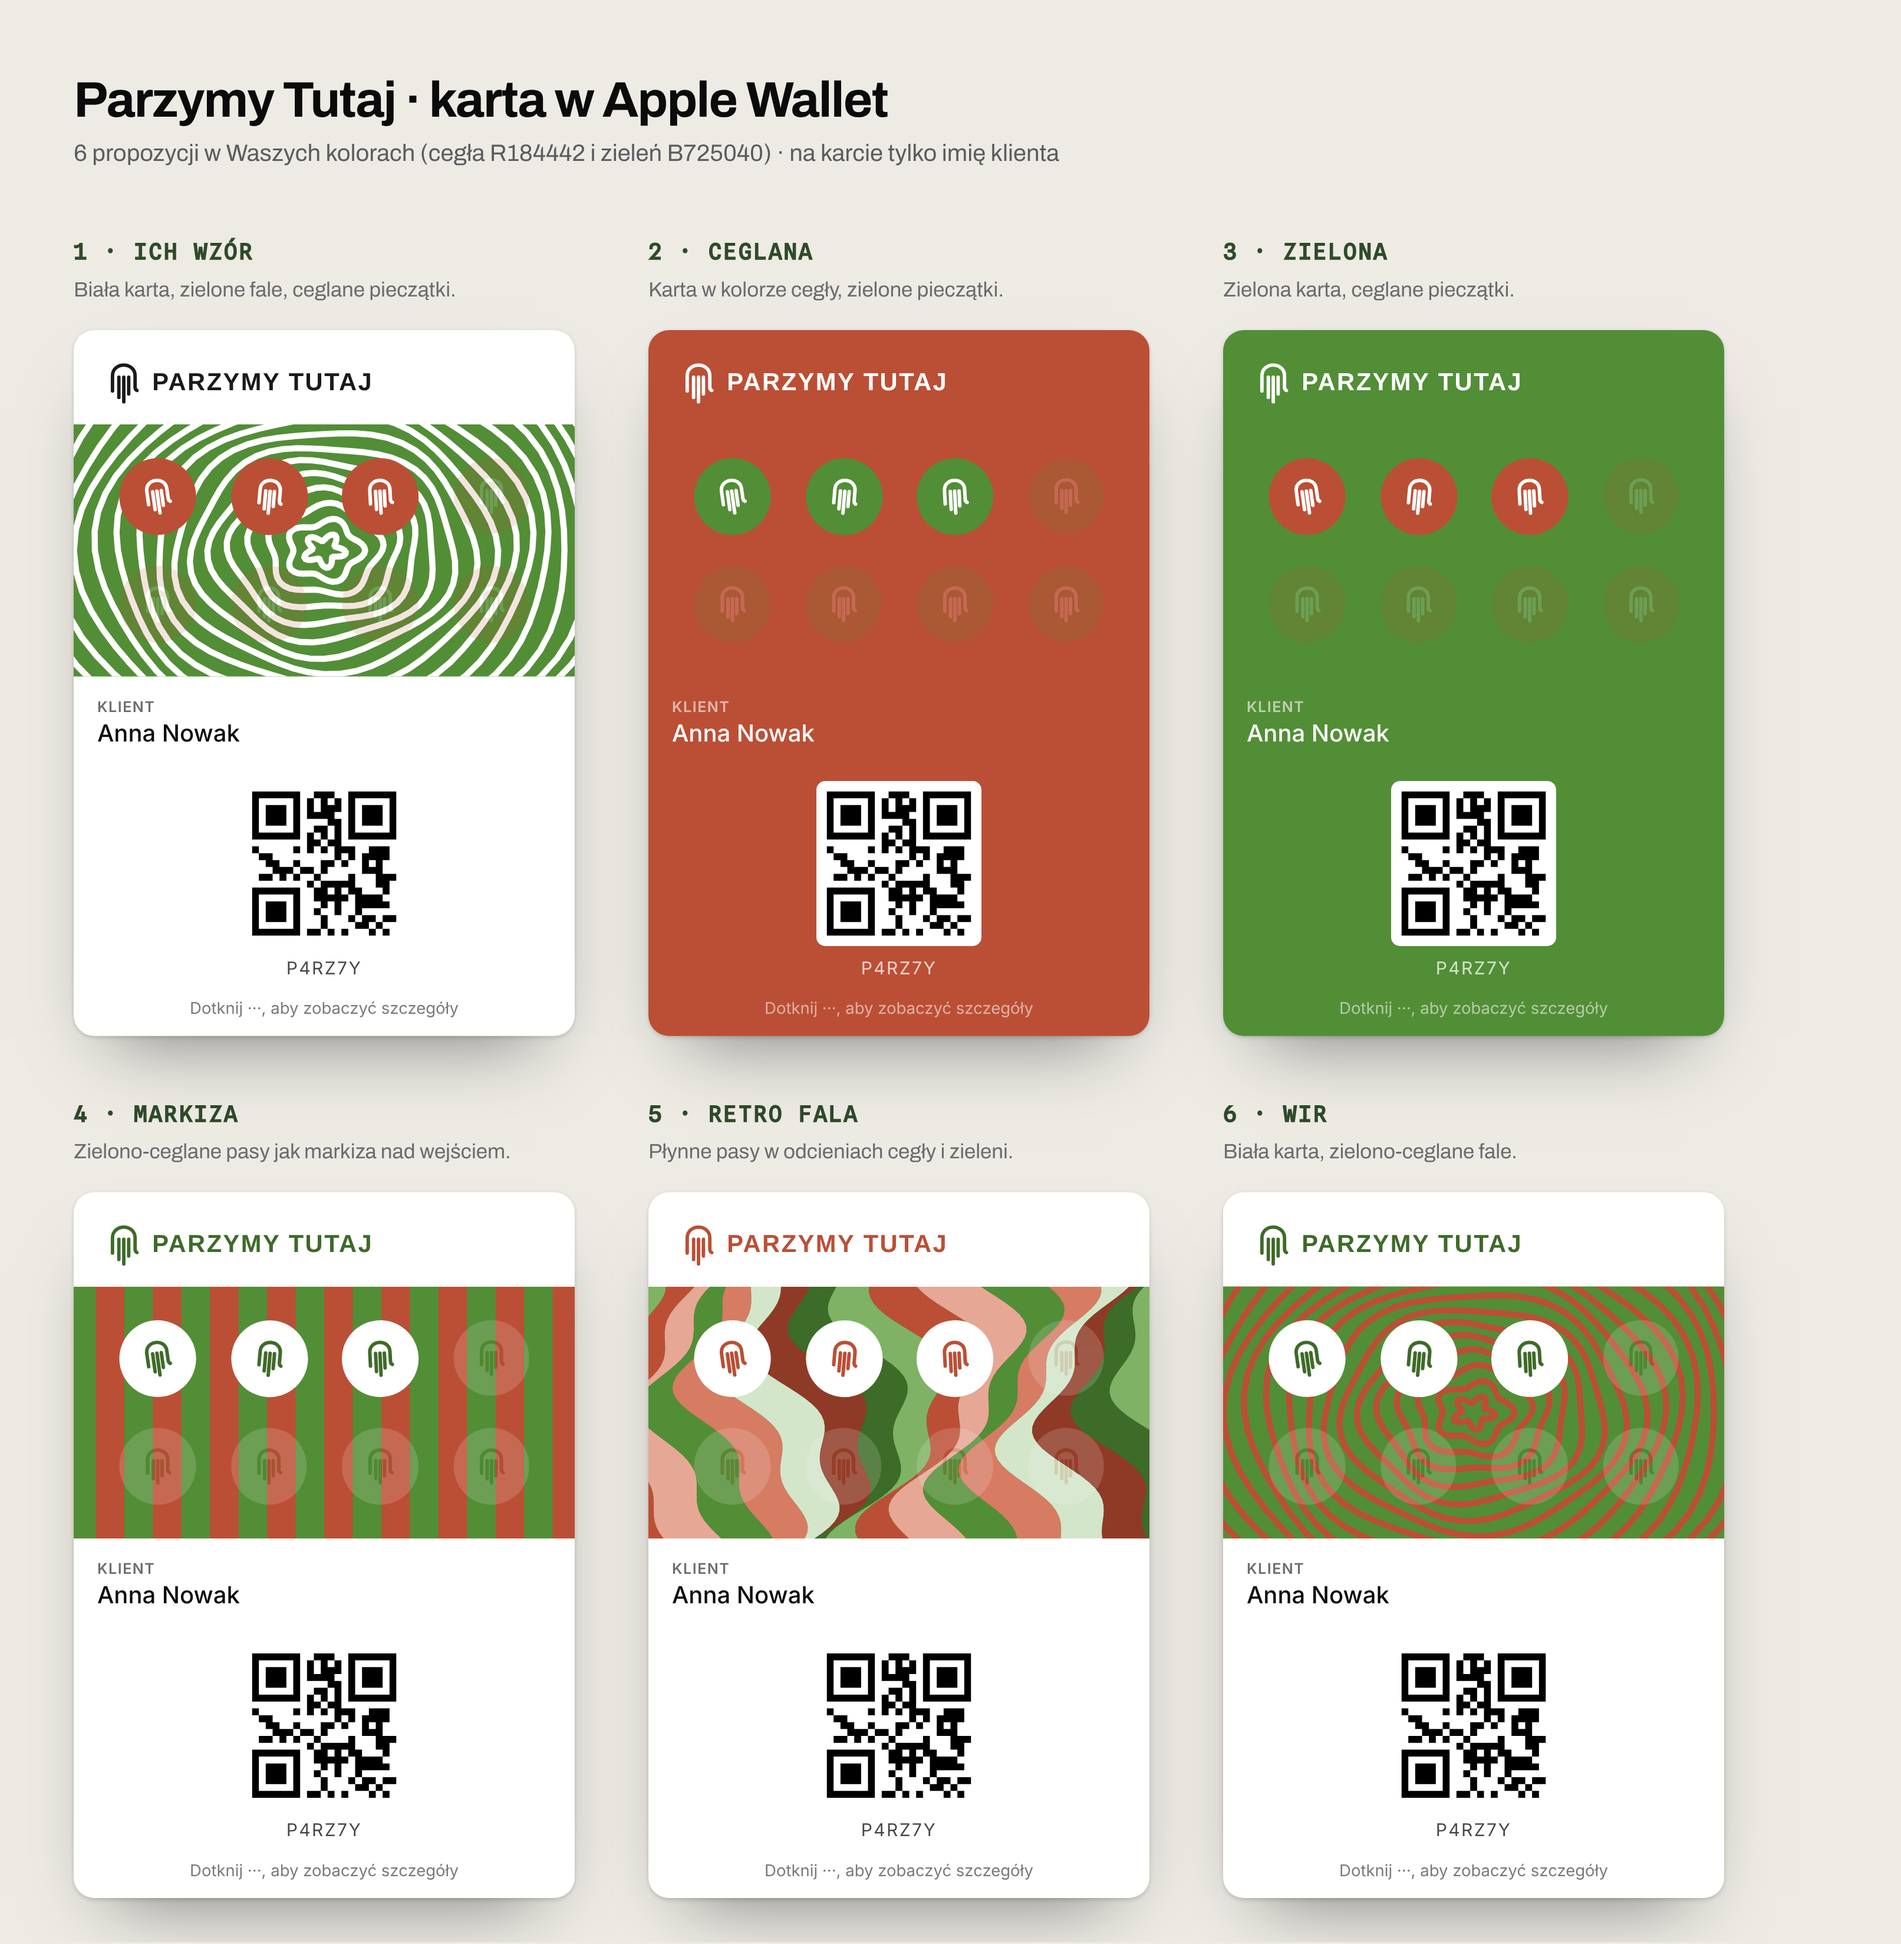
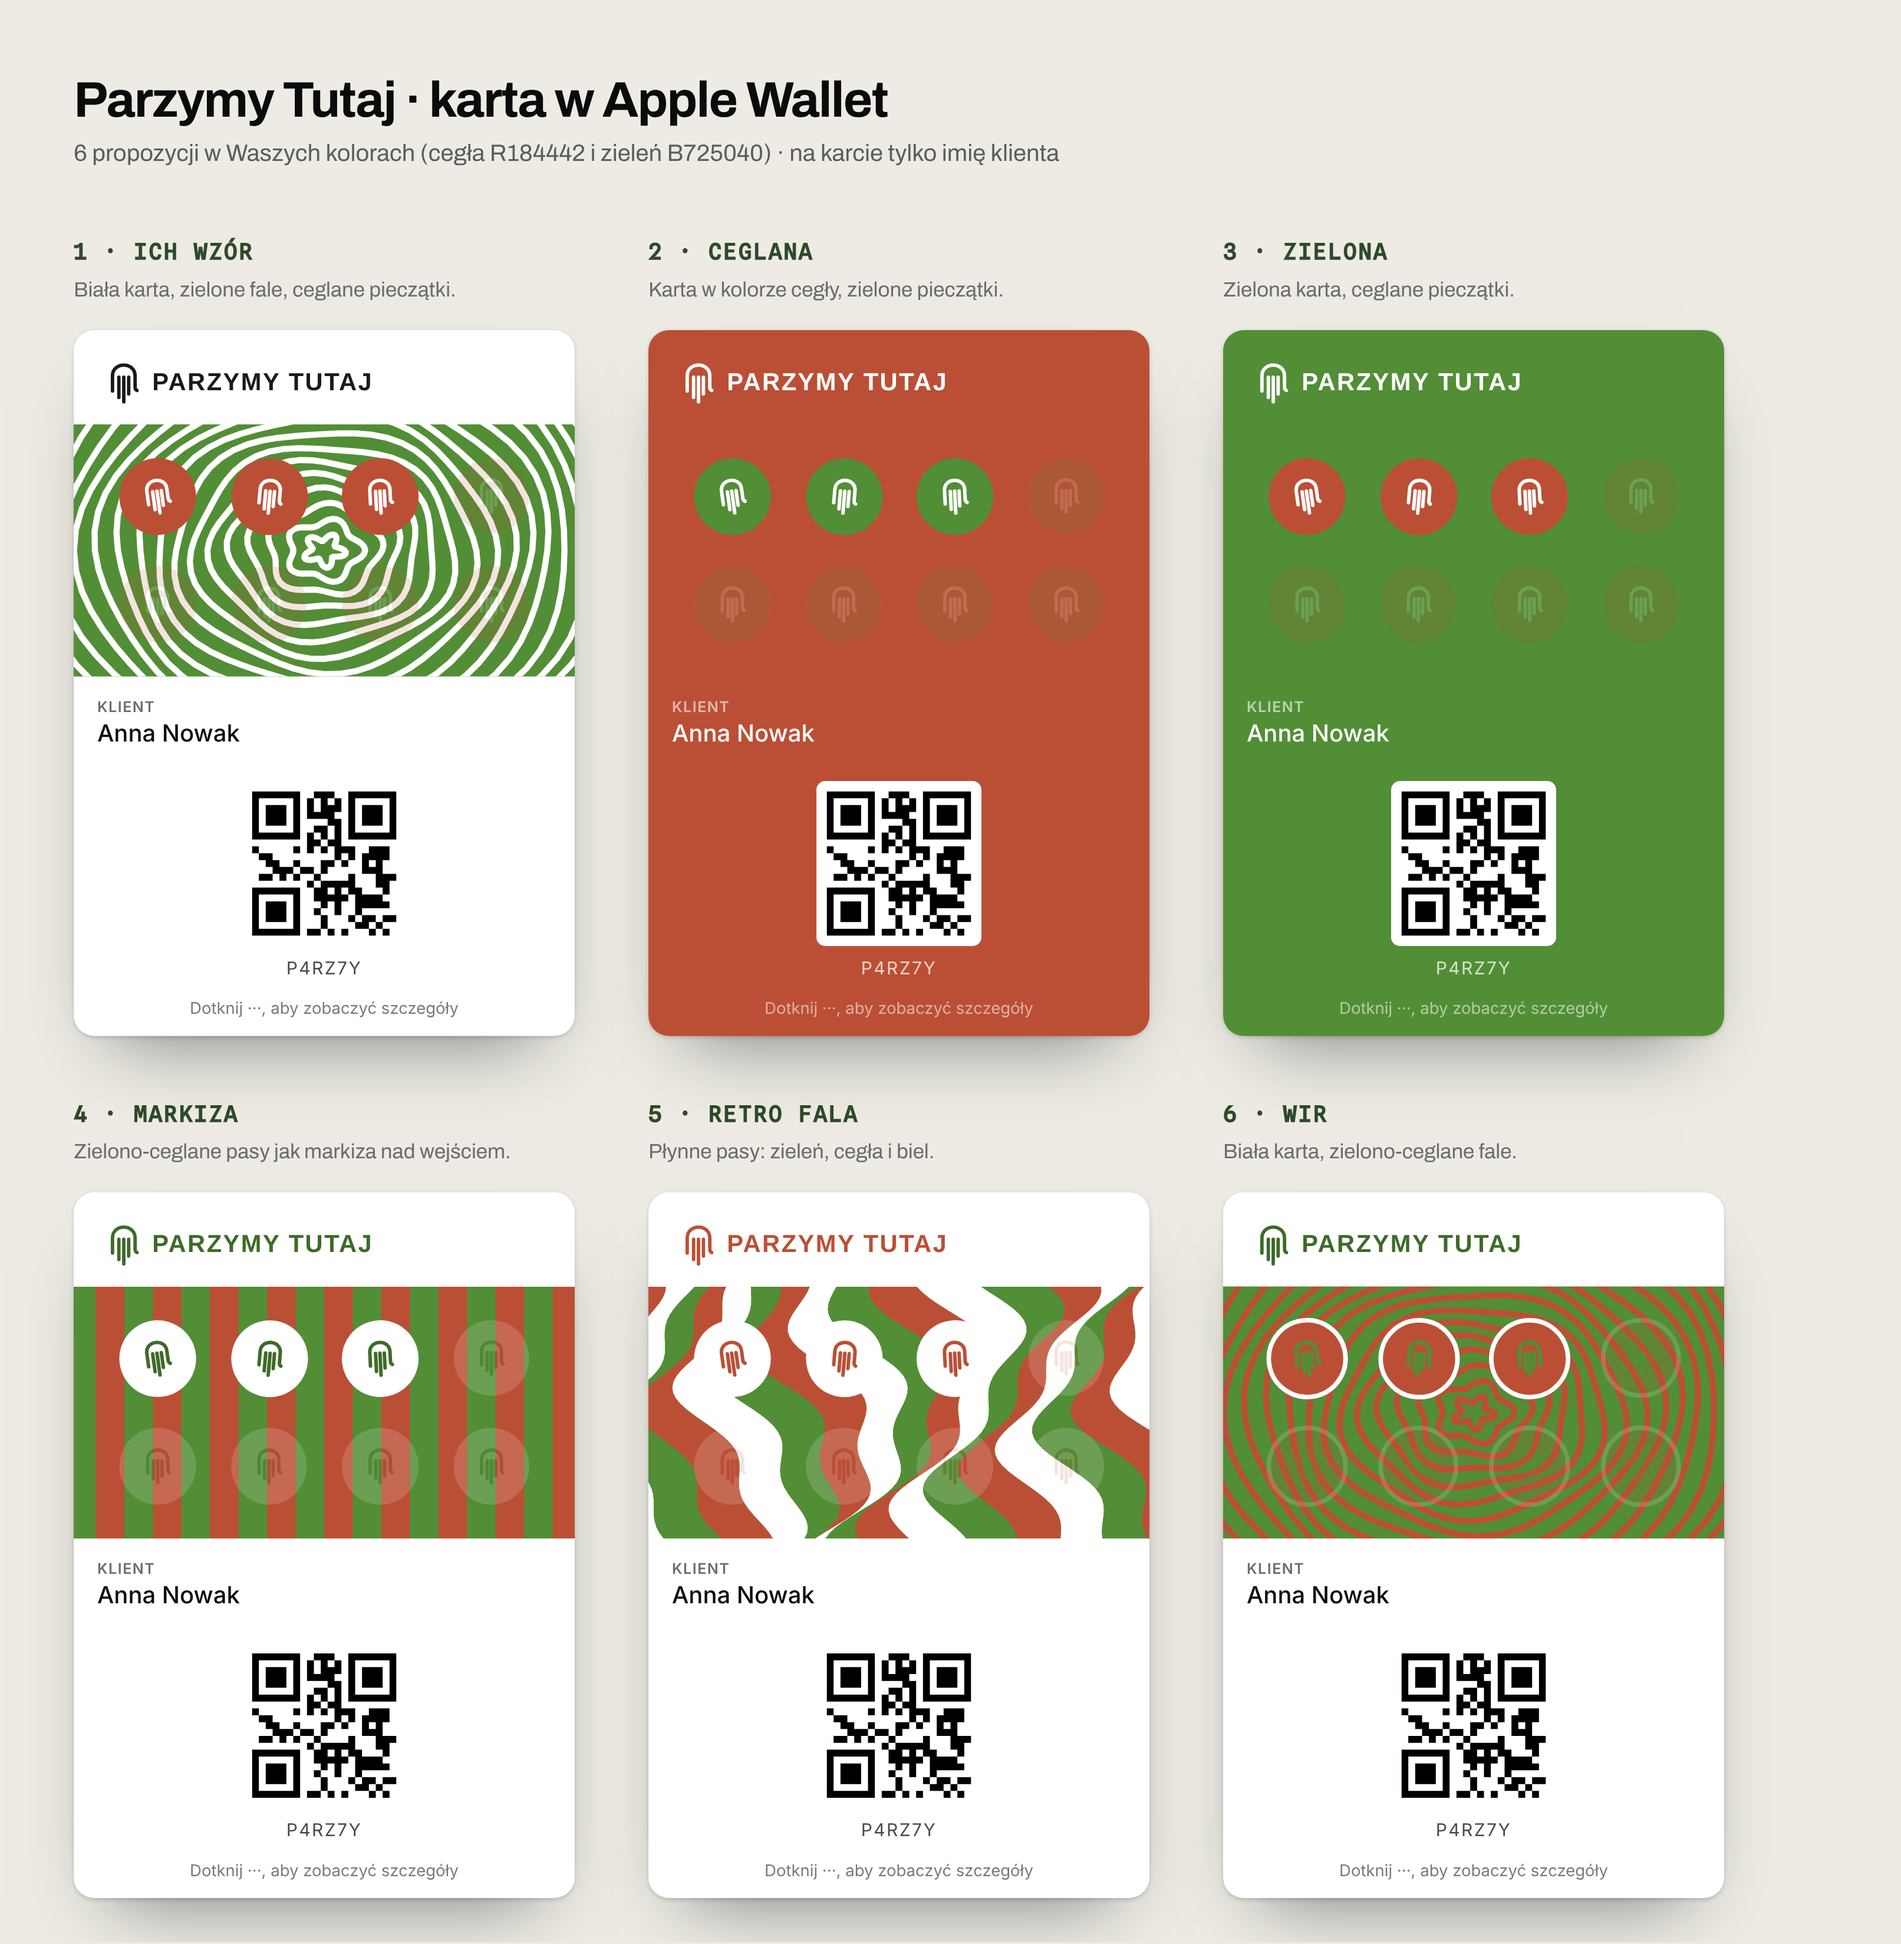
Parzymy options: card 5 in their two colours and white; card 6 brick stamps with a green mark
Claude-Session: https://claude.ai/code/session_01P7jvwC9jL6ipCqqXJiCoo9

Changed region(s): [[0.3411, 0.6559, 0.6202, 0.812], [0.6512, 0.6559, 0.8992, 0.7808]]

diff --git a/print/parzymy-options.html b/print/parzymy-options.html
@@ -103,8 +103,8 @@ body{margin:0;background:#EDEBE4}
     ['2 · Ceglana', 'Karta w kolorze cegły, zielone pieczątki.', { ...BASE, color: R, ink: W, strip: R, logo: caps(W), stripImage: plain(R), stampImage: mk(G, W) }],
     ['3 · Zielona', 'Zielona karta, ceglane pieczątki.', { ...BASE, color: G, ink: W, strip: G, logo: caps(W), stripImage: plain(G), stampImage: mk(R, W) }],
     ['4 · Markiza', 'Zielono-ceglane pasy jak markiza nad wejściem.', { ...BASE, color: W, ink: '#1A1A1A', strip: W, logo: caps(GR[700]), stripImage: awning(G, R), stampImage: mk(W, GR[700]) }],
-    ['5 · Retro fala', 'Płynne pasy w odcieniach cegły i zieleni.', { ...BASE, color: W, ink: '#1A1A1A', strip: W, logo: caps(R), stripImage: liquid([GR[700], GR[300], BR[500], BR[200], GR[500], BR[300], GR[100], BR[700]]), stampImage: mk(W, R) }],
-    ['6 · Wir', 'Biała karta, zielono-ceglane fale.', { ...BASE, color: W, ink: '#1A1A1A', strip: G, logo: caps(GR[700]), stripImage: swirl(G, R), stampImage: mk(W, GR[700]) }]
+    ['5 · Retro fala', 'Płynne pasy: zieleń, cegła i biel.', { ...BASE, color: W, ink: '#1A1A1A', strip: W, logo: caps(R), stripImage: liquid([G, R, W, G, R, W]), stampImage: mk(W, R) }],
+    ['6 · Wir', 'Biała karta, zielono-ceglane fale.', { ...BASE, color: W, ink: '#1A1A1A', strip: G, logo: caps(GR[700]), stripImage: swirl(G, R), stampImage: svgUrl(`<svg xmlns="http://www.w3.org/2000/svg" viewBox="0 0 100 100"><circle cx="50" cy="50" r="42" fill="${R}" stroke="${W}" stroke-width="5"/><g transform="translate(26 22) scale(.48)">${markG(G, 9)}</g></svg>`) }]
   ];
   const who = { id: 'P4RZ7Y', name: 'Anna Nowak', stamps: 3 };
   document.getElementById('grid').innerHTML = OPTS.map(([h, p, card]) => `<div class="opt"><h2>${h}</h2><p>${p}</p>${UI.renderPass(card, who, { platform: 'apple' })}</div>`).join('');
